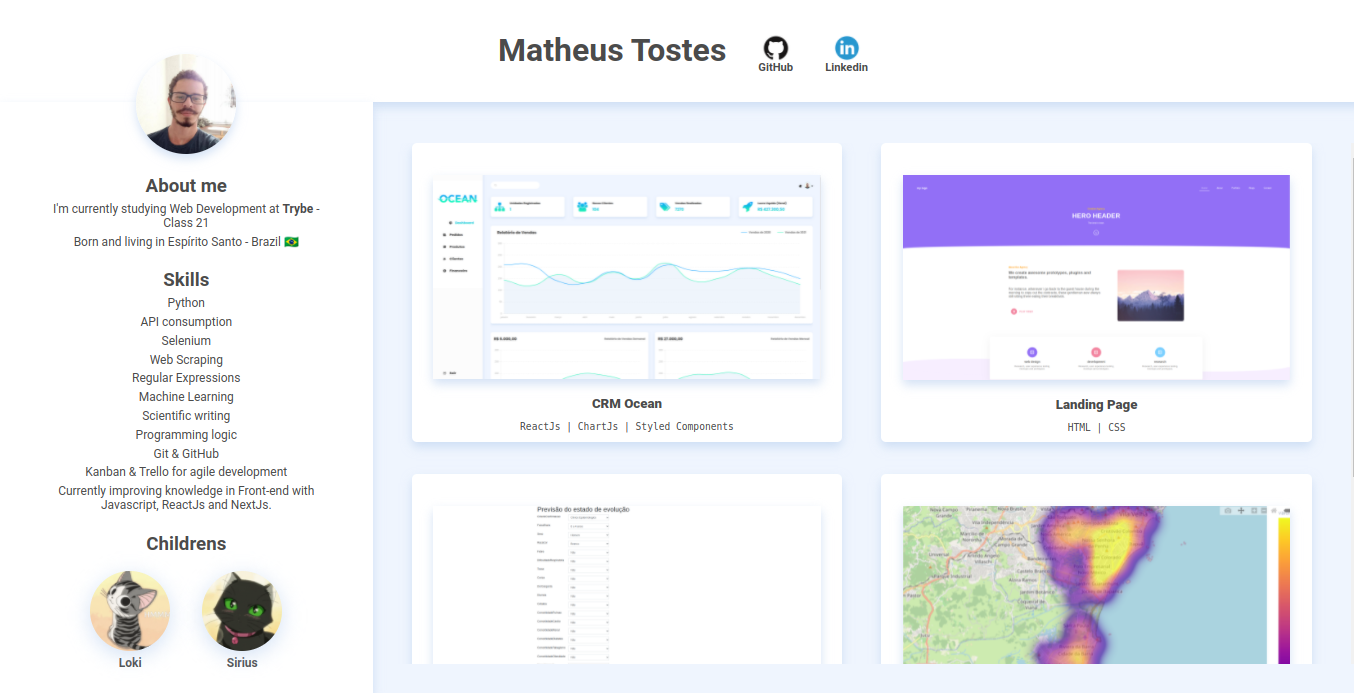
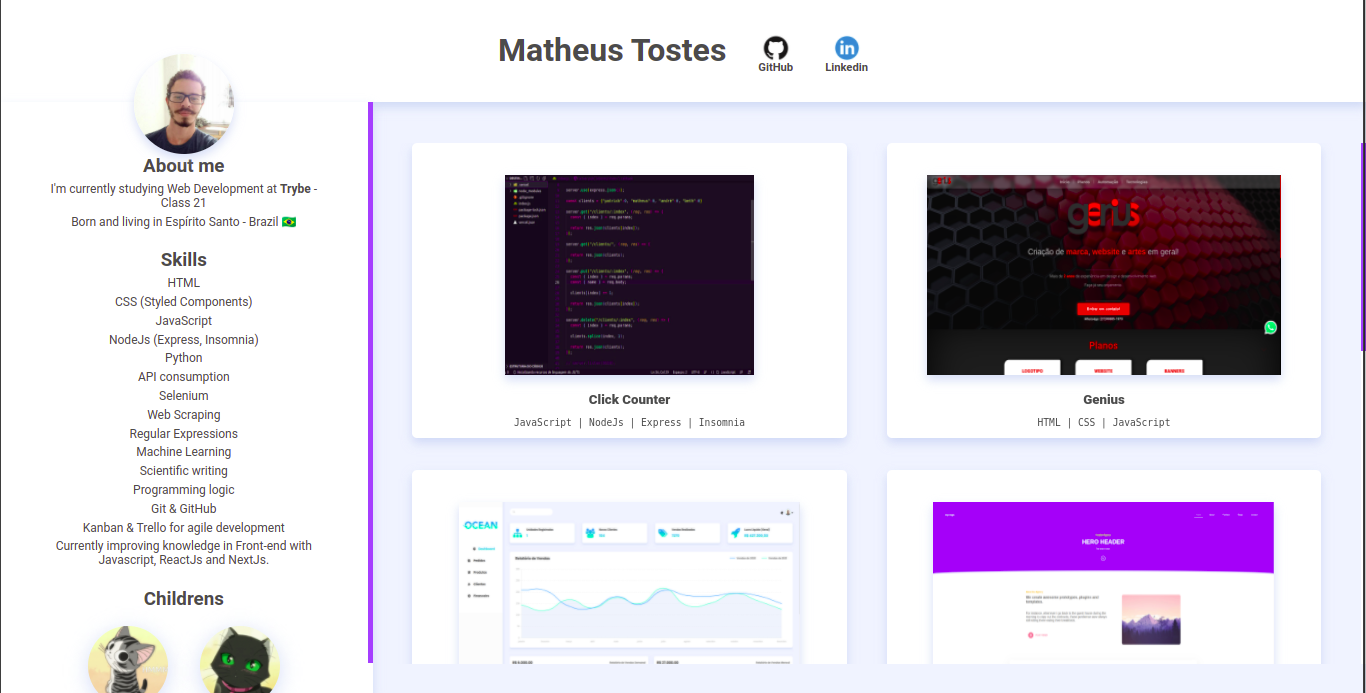
Add project gifs

diff --git a/projects.js b/projects.js
@@ -1,85 +1,82 @@
 const projects = [
-    {
-        "cat":"development",
-        "url":"https://destiny-backend-matheustostes.vercel.app/clients/",
-        "pic":"click-counter.jpeg" , 
-        "title":"Click Counter",
-        "altPic":"click counter",
-        "techs":"JavaScript | NodeJs | Express | Insomnia"
-    },
-    {
-        "cat":"development",
-        "url":"https://anxious-genius.com",
-        "pic":"anxious-genius.png" , 
-        "title":"Genius",
-        "altPic":"genius site",
-        "techs":"HTML | CSS | JavaScript"
-    },
-    {
-        "cat":"development",
-        "url":"https://crm-ocean.vercel.app/",
-        "pic":"crm.png", 
-        "title":"CRM Ocean",
-        "altPic":"crm Ocean",
-        "techs":"ReactJs | ChartJs | Styled Components"
-    },
-    {
-        "cat":"development",
-        "url":"https://landing-page-vert.vercel.app/",
-        "pic":"landing-page.png",
-        "title":"Landing Page",
-        "altPic":"landing page",
-        "techs":"HTML | CSS"
-    },
-    {
-        "cat":"development",
-        "url":"https://covid19-ml-doctor.herokuapp.com/",
-        "pic":"covid-19-ml-doctor.png",
-        "title":"Covid-19 Machine Learning Doctor",
-        "altPic":"covid-19 machine learning doctor",
-        "techs":"Python | Pandas | Machine Learning | Bootstrap | Flask"
-    },
-    {
-        "cat":"development",
-        "url":"https://github.com/MatheusTostes/analise-socioeconomica",
-        "pic":"economic-social-condition.png" , 
-        "title":"Economic Social Condition",
-        "altPic":"landing page",
-        "techs":"Python | Pandas | WebScraping | Urllib | Matplotlib"
-    },
-    {
-        "cat":"development",
-        "url":"https://github.com/MatheusTostes/matheustostes.github.io",
-        "pic":"portfolio.png" , 
-        "title":"Portfolio",
-        "altPic":"portfolio",
-        "techs":"HTML | CSS | JavaScript"
-    },
-    {
-        "cat":"development",
-        "url":"http://anxious-genius.com/introduction-ads",
-        "pic":"ads-project.png" , 
-        "title":"Ads Project",
-        "altPic":"ads project",
-        "techs":"HTML | CSS | JavaScript"
-    }
-]
-
-       
-                    
-                    
-                    
-                    
-                    
-        
-                    
-                    
-                    
-                    
-                    
-
-                    
-                    
-                    
-                    
-                   
+  {
+    id: 0,
+    cat: 'development',
+    url: 'https://destiny-backend-matheustostes.vercel.app/clients/',
+    pic: 'click-counter.jpeg',
+    gif: 'click-counter.gif',
+    title: 'Click Counter',
+    altPic: 'click counter',
+    techs: 'JavaScript | NodeJs | Express | Insomnia',
+  },
+  {
+    id: 1,
+    cat: 'development',
+    url: 'https://anxious-genius.com',
+    pic: 'anxious-genius.png',
+    gif: 'anxious-genius.gif',
+    title: 'Genius',
+    altPic: 'genius site',
+    techs: 'HTML | CSS | JavaScript',
+  },
+  {
+    id: 2,
+    cat: 'development',
+    url: 'https://crm-ocean.vercel.app/',
+    pic: 'crm.png',
+    gif: 'crm.gif',
+    title: 'CRM Ocean',
+    altPic: 'crm Ocean',
+    techs: 'ReactJs | ChartJs | Styled Components',
+  },
+  {
+    id: 3,
+    cat: 'development',
+    url: 'https://landing-page-vert.vercel.app/',
+    pic: 'landing-page.png',
+    gif: 'landing-page.gif',
+    title: 'Landing Page',
+    altPic: 'landing page',
+    techs: 'HTML | CSS',
+  },
+  {
+    id: 4,
+    cat: 'development',
+    url: 'https://covid19-ml-doctor.herokuapp.com/',
+    pic: 'covid-19-ml-doctor.png',
+    gif: 'covid-19-ml-doctor.gif',
+    title: 'Covid-19 Machine Learning Doctor',
+    altPic: 'covid-19 machine learning doctor',
+    techs: 'Python | Pandas | Machine Learning | Bootstrap | Flask',
+  },
+  {
+    id: 5,
+    cat: 'development',
+    url: 'https://github.com/MatheusTostes/analise-socioeconomica',
+    pic: 'economic-social-condition.png',
+    gif: 'economic-social-condition.gif',
+    title: 'Economic Social Condition',
+    altPic: 'landing page',
+    techs: 'Python | Pandas | WebScraping | Urllib | Matplotlib',
+  },
+  {
+    id: 6,
+    cat: 'development',
+    url: 'https://github.com/MatheusTostes/matheustostes.github.io',
+    pic: 'portfolio.png',
+    gif: 'portfolio.gif',
+    title: 'Portfolio',
+    altPic: 'portfolio',
+    techs: 'HTML | CSS | JavaScript',
+  },
+  {
+    id: 7,
+    cat: 'development',
+    url: 'http://anxious-genius.com/introduction-ads',
+    pic: 'ads-project.png',
+    gif: 'ads-project.gif',
+    title: 'Ads Project',
+    altPic: 'ads project',
+    techs: 'HTML | CSS | JavaScript',
+  },
+];

diff --git a/index.html b/index.html
@@ -9,6 +9,7 @@
     <link href="https://fonts.googleapis.com/css2?family=Roboto:wght@100;400;700;900&display=swap" rel="stylesheet">
     <link rel="stylesheet" href="reset.css">
     <link rel="stylesheet" href="styles.css">
+    <script src="script.js"></script>
     <title>Portfolio - Tostes</title>
 </head>
 <body>
@@ -108,7 +109,7 @@
                     let proj = `
                         <div class="project">
                             <a href=${i.url} target="_blank">
-                                <img src=${i.pic} alt=${i.alt}>
+                                <img id="${i.id}" src=${i.pic} onmouseover="playGif(event)" onmouseout="stopGif(event)" alt=${i.alt}>
                                 <h5>${i.title}</h5>
                                 <p>${i.techs}</p>
                             </a>

diff --git a/script.js b/script.js
@@ -1,0 +1,12 @@
+function playGif (event) {
+    let id = event.target.id
+    event.target.src = projects[id].gif
+    // console.log(event.target.src);
+    event.target.style.transform = 'scale(1.2)'
+}
+
+function stopGif (event) {
+    let id = event.target.id
+    event.target.src = projects[id].pic
+    event.target.style.transform = 'scale(1)'
+}
